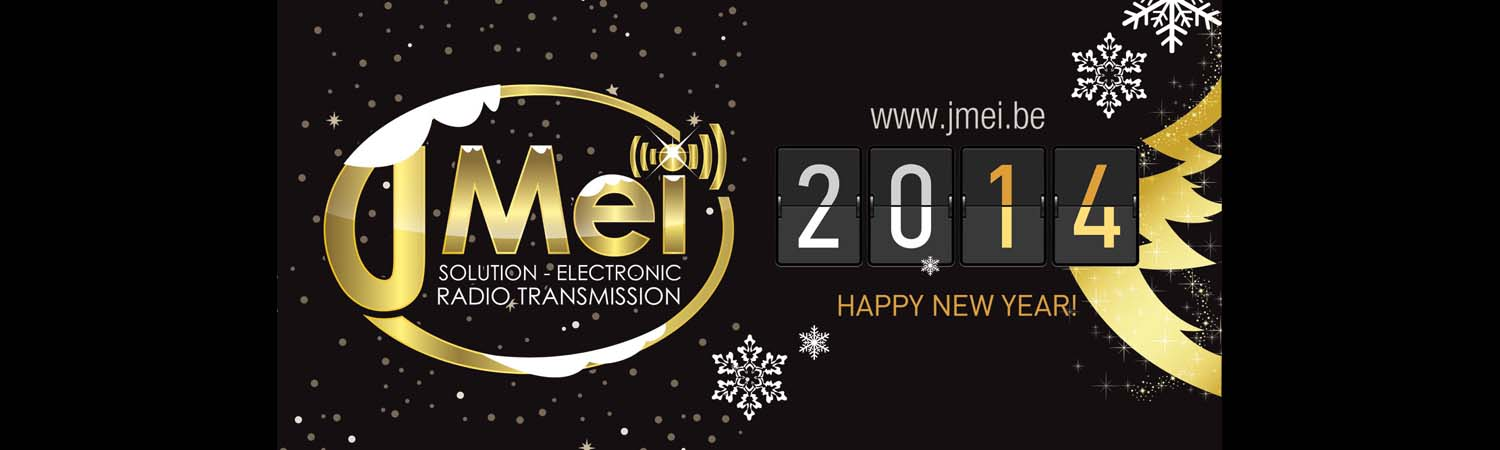
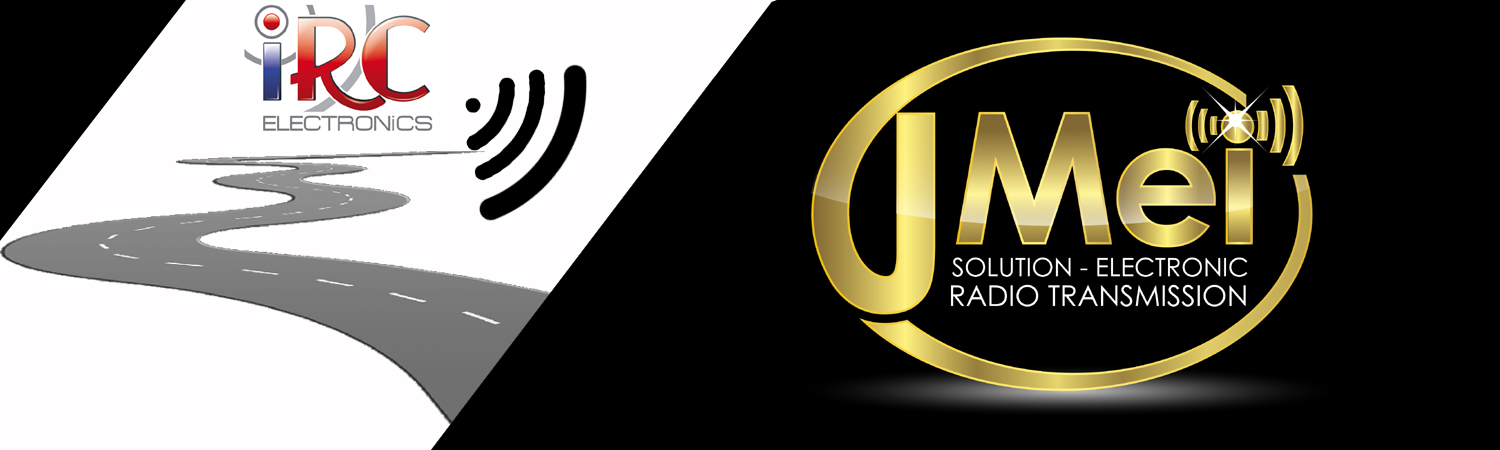
Produit Pocket FR

diff --git a/html/fr/produit-JMei-Pocket.php b/html/fr/produit-JMei-Pocket.php
@@ -1,0 +1,85 @@
+<?php
+	include 'common.php';
+//	$title .= '';
+	$title = 'JMei - Radio pocket - télécommande mini';
+	$description = 'Commande à distance économique et légère, JM-L4/L6/L8, JM-V6/V6+';
+	$keywords = 'Radio pocket,radio,pocket,Emetteur,compact,434MHZ,radio à distance,pont roulant,boîte à boutons,Télécommande';
+
+	$pageId = 'JMPOCKET';
+	include 'header.php';
+	include 'nav.php';
+
+?>
+			<div class="row">
+<?php include 'product-nav.php'; ?>
+				<div class="span9">
+					<a name="highlight"></a>
+				  <h3>Télécommande  de type JM-L et JM-V6 (Radio pocket)</h3>
+					<div class="row">
+						<div class="span4">
+							<img class="img-polaroid" src="../img/product-JMPOCKET/JMpocket1.jpg" alt="Radiocommande pour pont roulant" />
+						</div>
+					</div>
+					<p></p>
+					<p><a href="<?php echo Site::relativeUrl('RCB90.pdf');?>" class="btn btn-success btn-large"><i class="icon-white icon-arrow-down"></i> Télécharger le PDF</a></p>
+					<hr>
+					<h4>Gamme</h4>
+					<div class="row">
+						<div class="span3">
+							<h5>JM-L4 / JM-L6 / JM-L8</h5>
+							<img src="../img/product-JMPOCKET/JMpocket2.jpg" alt="Boîte à boutons JMei"> 
+							<h6>Fonctions diponibles:</h6>
+							<ul>
+								<li>Jusqu'à 8 boutons à simple impulsion.</li>
+								<li>Fréquence fixe à quartz. </li>
+								<li>Indicateur de puissance faible. <br>
+							    Bouton-poussoir bloqué détecteur. </li>
+								<li>Distance de fonctionnement: Jusqu'à 100 mètres. </li>
+								<li>Température de fonctionnement: -45 ℃ ~ 80 ℃. </li>
+								<li>Consommation: environ 10mA. </li>
+								<li>Structure: Nylon + fibre de verre. </li>
+								<li>Résistance aux chocs. </li>
+								<li>fonction programmable</li>
+								<li>434MHZ - 12-24V DC ou 24-48-110-220-380V AC</li>
+							</ul>
+							<p><strong>Applications: </strong>Emetteur compact  de poche dont l'installation est  aisée.<br>
+						    Son marché principal est le marché des véhicules, en particulier pour les camions de remorquage.</p>
+						</div>
+						<div class="span3">
+						  <h5>JM-V6 / JM-V6+<br>
+							</h5>
+							<img src="../img/product-JMPOCKET/JMpocket3.jpg" alt="Boîte à boutons universelle"> 
+						  <h6>Fonctions diponibles:</h6>
+                          <ul>
+                            <li>SMART Communication Radio <br>
+                              Il aide l'opérateur de surveiller l'état de signal radio avec cette nouvelle technologie RF. </li>
+                            <li>Sélection automatique des canaux (ACS) <br>
+                              Cette fonction crée une non-interférence près d'autres systèmes</li>
+                            <li>Récepteur tableau de commande (en option) <br>
+                              Un tableau de commande disponible sur le récepteur pour pallier à l'émetteur  perdu / endommagé </li>
+                            <li>Jumelage à distance <br>
+                              Il est facile et simple à enregistrer un émetteur de remplacement sans aucun outil nécessaire. </li>
+                            <li>Programmable Logiciel PC <br>
+                              Il vous permet de programmer la fonction de bouton, et fréquences grâce à un logiciel </li>
+                            <li>NC / NO relais <br>
+                              Tous les relais sont NC / NO Type de répondre à toutes les exigences de l'application </li>
+                            <li> IP66 <br>
+                              Boîtier robuste pour toutes les conditions météorologiques </li>
+                            <li>Le mode de mise sous tension Mot de passe <br>
+                              Il offre plusieurs modes de mise sous tension comme mot de passe pour l'opérateur autorisé </li>
+                            <li>Câble du récepteur pré-assemblés <br>
+                              Installation facile et rapide</li>
+                            <li>868MHz - 10..42V DC</li>
+                          </ul>
+							<p><strong>Applications: </strong>Un système radio à distance développé pour le système  Remorques / Treuils / hydraulique. Elle s'applique également pour le contrôle industriel / porte / barrière et autres domaines industriels</p>
+						</div>
+						<div class="span3"></div>
+					</div>
+					<div class="row">
+					  <div class="span3">					    </div>
+						<div class="span3">
+						</div>
+					</div>
+				</div>
+			</div>
+ <?php include 'footer.php';?>

diff --git a/html/fr/index.php b/html/fr/index.php
@@ -14,7 +14,7 @@
 						<img src="../img/home/slide-01.jpg" alt="">
 						<div class="container">
 							<div class="carousel-caption">
-								<p class="lead">L'équipe JMei vous souhaite de joyeuses fêtes! <a class="btn btn-jmei pull-right" href="<?php echo Site::relativeUrl('about');?>">Plus d'infos...</a></p>
+								<p class="lead">Après beaucoup d'efforts, IRC devient JMei.<a class="btn btn-jmei pull-right" href="<?php echo Site::relativeUrl('about');?>">Plus d'infos...</a></p>
 							</div>
 						</div>
 					</div>
@@ -32,7 +32,7 @@
 						<div class="container">
 							<div class="carousel-caption">
 								<p class="lead">Flexibilité, innovation, solution à vos besoins spécifiques.
-								<a class="btn btn-jmei pull-right" href="<?php echo Site::relativeUrl('realisations');?>">Plus d'infos...</a></p>
+								<a class="btn btn-jmei pull-right" href="<?php echo Site::relativeUrl('RCB1000');?>">Plus d'infos...</a></p>
 							</div>
 						</div>
 					</div>
@@ -66,8 +66,8 @@
 						<img src="../img/home/slide-07.jpg" alt="JMei radiocommande ex inradco ex collard">
 						<div class="container">
 							<div class="carousel-caption">
-								<p class="lead">Après beaucoup d'efforts, IRC devient JMei.
-								<a class="btn btn-jmei pull-right" href="<?php echo Site::relativeUrl('about');?>">Plus d'infos...</a></p>
+								<p class="lead">Télécommandes pocket, légères, économiques.
+								<a class="btn btn-jmei pull-right" href="<?php echo Site::relativeUrl('JMPOCKET');?>">Plus d'infos...</a></p>
 							</div>
 						</div>
 					</div>

diff --git a/html/fr/product-nav.php b/html/fr/product-nav.php
@@ -8,7 +8,7 @@
 							<li class="nav-header">Boîte à boutons</li>
 							<li<?php echo Site::addActiveClass('RCB90'); ?>><a href="<?php echo Site::relativeUrl('RCB90');?>">RCB90 <i class="icon-chevron-right pull-right"></i></a></li>
 							<li<?php echo Site::addActiveClass('RCB700'); ?>><a href="<?php echo Site::relativeUrl('RCB700');?>">RCB700 <i class="icon-chevron-right pull-right"></i></a></li>
-                         <li<?php echo Site::addActiveClass('Saga'); ?>><a href="<?php echo Site::relativeUrl('Saga');?>">Radio pocket <i class="icon-chevron-right pull-right"></i></a></li>   
+                         <li<?php echo Site::addActiveClass('JMPOCKET'); ?>><a href="<?php echo Site::relativeUrl('JMPOCKET');?>">Radio pocket <i class="icon-chevron-right pull-right"></i></a></li>   
 							<li class="nav-header">Pupitre ventral</li>
 							<li<?php echo Site::addActiveClass('Helice'); ?>><a href="<?php echo Site::relativeUrl('Helice');?>">Hélice <i class="icon-chevron-right pull-right"></i></a></li>
 							<li<?php echo Site::addActiveClass('RCB1000'); ?>><a href="<?php echo Site::relativeUrl('RCB1000');?>">RCB1000 <i class="icon-chevron-right pull-right"></i></a></li>

diff --git a/html/common.php b/html/common.php
@@ -75,7 +75,7 @@
 			self::addPage ( new Page ( 'KEY', 'en', 'product-configuration-and-identification-key', 'products' ) );
 			self::addPage ( new Page ( 'KEY', 'fr', 'produit-clef-de-configuration-et-identification', 'products' ) );
 //			self::addPage ( new Page ( 'Saga', 'en', 'product-RCB7000', 'products' ) );
-			self::addPage ( new Page ( 'Saga', 'fr', 'produit-Saga', 'products' ) );
+			self::addPage ( new Page ( 'JMPOCKET', 'fr', 'produit-JMei-Pocket', 'products' ) );
 
 			self::addPage ( new Page ( 'RCB90.pdf', 'en', 'JMei RCB90', '', Page::PDF, true, .6 ) );
 			self::addPage ( new Page ( 'RCB90.pdf', 'fr', 'JMei RCB90', '', Page::PDF, true, .6 ) );
